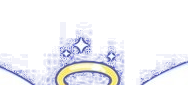
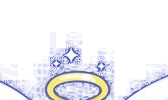
Split wings into 3 pieces: left wing, right wing, halo — each positioned independently

diff --git a/components/PersonNode.tsx b/components/PersonNode.tsx
@@ -143,40 +143,28 @@ function PersonNode({ data, selected }: NodeProps<PersonNodeType>) {
         </div>
       )}
 
-      {/* Angel wings — shown for deceased persons */}
+      {/* Angel wings — 3 separate pieces for deceased persons */}
       {isDeceased && (
-        // eslint-disable-next-line @next/next/no-img-element
         <>
-          {/* Wings (halo removed from this image) */}
+          {/* Left wing — anchored to left edge of card, extends outward */}
           {/* eslint-disable-next-line @next/next/no-img-element */}
-          <img
-            alt=""
-            src="/angel-wings-transparent.png"
-            style={{
-              position: 'absolute',
-              width: 260,
-              top: -88,
-              left: '50%',
-              transform: 'translateX(-50%)',
-              pointerEvents: 'none',
-              userSelect: 'none',
-            }}
-          />
-          {/* Halo — sits straddling the top center of the card */}
+          <img alt="" src="/wing-left.png" style={{
+            position: 'absolute', width: 160, top: -110,
+            right: '72%', pointerEvents: 'none', userSelect: 'none',
+          }} />
+          {/* Right wing — anchored to right edge of card, extends outward */}
           {/* eslint-disable-next-line @next/next/no-img-element */}
-          <img
-            alt=""
-            src="/angel-halo.png"
-            style={{
-              position: 'absolute',
-              width: 110,
-              top: -24,
-              left: '50%',
-              transform: 'translateX(-50%)',
-              pointerEvents: 'none',
-              userSelect: 'none',
-            }}
-          />
+          <img alt="" src="/wing-right.png" style={{
+            position: 'absolute', width: 160, top: -110,
+            left: '72%', pointerEvents: 'none', userSelect: 'none',
+          }} />
+          {/* Halo — floats above card center */}
+          {/* eslint-disable-next-line @next/next/no-img-element */}
+          <img alt="" src="/angel-halo.png" style={{
+            position: 'absolute', width: 100, top: -48,
+            left: '50%', transform: 'translateX(-50%)',
+            pointerEvents: 'none', userSelect: 'none',
+          }} />
         </>
       )}
 
